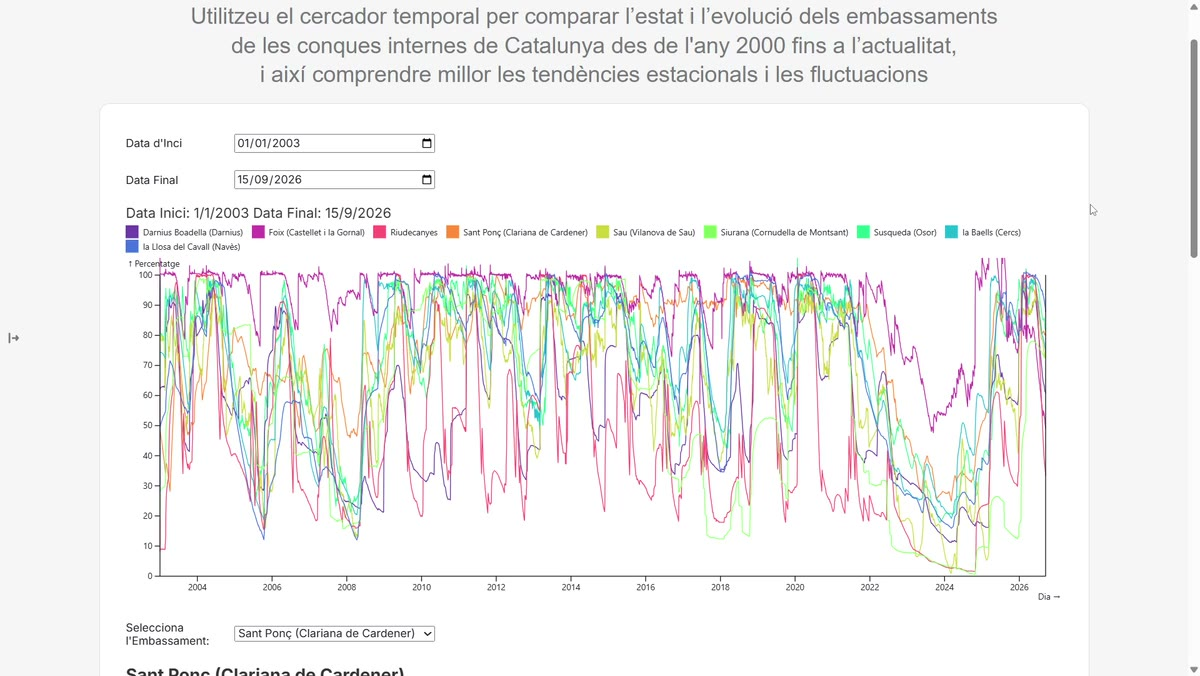
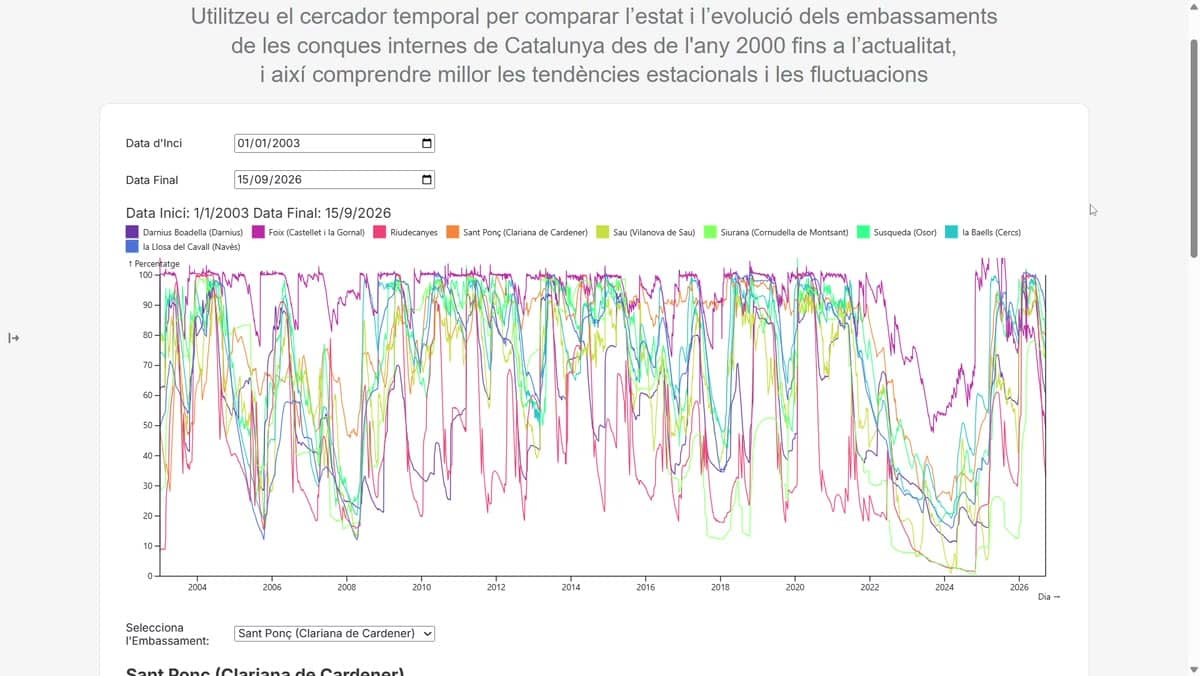
Size case media by aspect ratio, cap it, and name the cover
- Image and video boxes are min(cap, width / media ratio) instead of a
  fixed 360/400 at every width. Wide columns draw exactly as before; at 344
  the cover's box drops from 63% empty to 0, the video panel from 400 to 158.
  Figma draws the same rule as Height=capped|fluid on MediaFigure and the
  new MediaVideo set.
- The cover gets alt text: it shows the dashboard's landing page, which the
  title does not say.
- The video poster is recompressed (mozjpeg q70): 132 KB -> 73 KB.

diff --git a/app/projects/[slug]/page.module.css b/app/projects/[slug]/page.module.css
@@ -181,8 +181,9 @@
   rotate: 35deg;
 }
 
-/* MediaFigure (1176:1164) — the cover, Caption=No. 360 tall at every width,
-   radius/md, surface/subtle behind an object-contain image. */
+/* MediaFigure (1176:1164) — the cover, Caption=No. radius/md, surface/subtle
+   behind an object-contain image. Height is min(360, width ÷ the image's
+   ratio): see .mediaImage below, which is the same box. */
 .cover {
   inline-size: 100%;
 }
@@ -190,7 +191,8 @@
 .cover img {
   display: block;
   inline-size: 100%;
-  block-size: 360px;
+  block-size: auto;
+  max-block-size: 360px;
   object-fit: contain;
   border-radius: var(--radius-md);
   background-color: var(--color-surface-subtle);
@@ -375,12 +377,20 @@
   inline-size: 100%;
 }
 
-/* The cover's frame (1176:1164), reused for every image slot: 360 tall at
-   every width, radius/md, surface/subtle behind an object-contain image. */
+/* The cover's frame (1176:1164), reused for every image slot: radius/md,
+   surface/subtle behind an object-contain image.
+
+   HEIGHT IS min(360, width ÷ the image's ratio), since 2026-09-28. `auto`
+   takes the ratio from the width/height attributes next/image writes, and the
+   cap keeps wide columns exactly as before — letterboxed at 360. The old fixed
+   360 at every width left 63% of the box empty on a 344 screen. Figma draws
+   the same rule as MediaFigure's Height=capped|fluid: fluid below 640, where
+   16:9 reaches 360. */
 .mediaImage {
   display: block;
   inline-size: 100%;
-  block-size: 360px;
+  block-size: auto;
+  max-block-size: 360px;
   object-fit: contain;
   border-radius: var(--radius-md);
   background-color: var(--color-surface-subtle);

diff --git a/components/MediaVideo/MediaVideo.module.css b/components/MediaVideo/MediaVideo.module.css
@@ -1,18 +1,18 @@
-/* MediaVideo (1161:142). 400 tall at every width, space/xl padding on all
-   sides, radius/lg, surface/subtle.
+/* MediaVideo (1386:161). space/xl padding on all sides, radius/lg,
+   surface/subtle. The clip is 16:9 and object-contain.
 
-   ONE DEPARTURE FROM THE FRAME, and it is deliberate: the frame draws the
-   video as a fixed 320 square. That square is the calebwu.ca placeholder
-   the component was ported from, and our clip is 16:9 — in a 320 square it
-   would letterbox to 320x180. The description's own rule is "object-contain,
-   scale with container", so the video takes the panel's whole padded box
-   and contains itself in it: 596x336 at the 1448 frame. */
+   HEIGHT IS min(400, inner width x 9/16 + padding), since 2026-09-28. The
+   panel hugs the clip, and the clip is capped at 400 minus the padding, so a
+   wide column still draws the 400 panel with the clip at 596x336. The old
+   fixed 400 left 76% of the panel empty on a 344 screen. Figma draws it as
+   Height=capped from 661 wide (inner 597, where 16:9 reaches 336) and
+   Height=fluid below. The 320 square the frame used to draw was the
+   calebwu.ca placeholder, never our clip. */
 .panel {
   position: relative;
   display: flex;
   align-items: center;
   justify-content: center;
-  block-size: 400px;
   padding: var(--space-xl);
   overflow: clip;
   border-radius: var(--radius-lg);
@@ -22,7 +22,8 @@
 .video {
   display: block;
   inline-size: 100%;
-  block-size: 100%;
+  block-size: auto;
+  max-block-size: calc(400px - 2 * var(--space-xl));
   object-fit: contain;
 }
 

diff --git a/lib/case-studies/embassaments.ts b/lib/case-studies/embassaments.ts
@@ -103,8 +103,8 @@ export type CaseStudy = {
   liveLabel: string
   /* ProjectLogo's glyph. Decorative — the page renders it aria-hidden. */
   logo: string
-  /* The hero. `image.alt` stays empty while the cover only restates the
-     title; give it alt text if a cover ever shows something the copy doesn't. */
+  /* The hero, in the cover's MediaFigure frame. Its alt says what the image
+     shows, not what the title already said. */
   cover: { slot: string; caption: string | null; image: CaseImage }
   meta: { label: string; value: string }[]
   sections: CaseSection[]
@@ -126,7 +126,10 @@ export const embassaments: CaseStudy = {
   cover: {
     slot: 'Cover image — full width, directly below the standfirst, above the metadata bar.',
     caption: null,
-    image: { src: coverImage, alt: '' },
+    image: {
+      src: coverImage,
+      alt: 'The dashboard’s landing page, headed “Estat dels Embassaments a Catalunya” — the state of Catalonia’s reservoirs.',
+    },
   },
   meta: [
     { label: 'Role', value: 'Research, design, and development — solo' },
